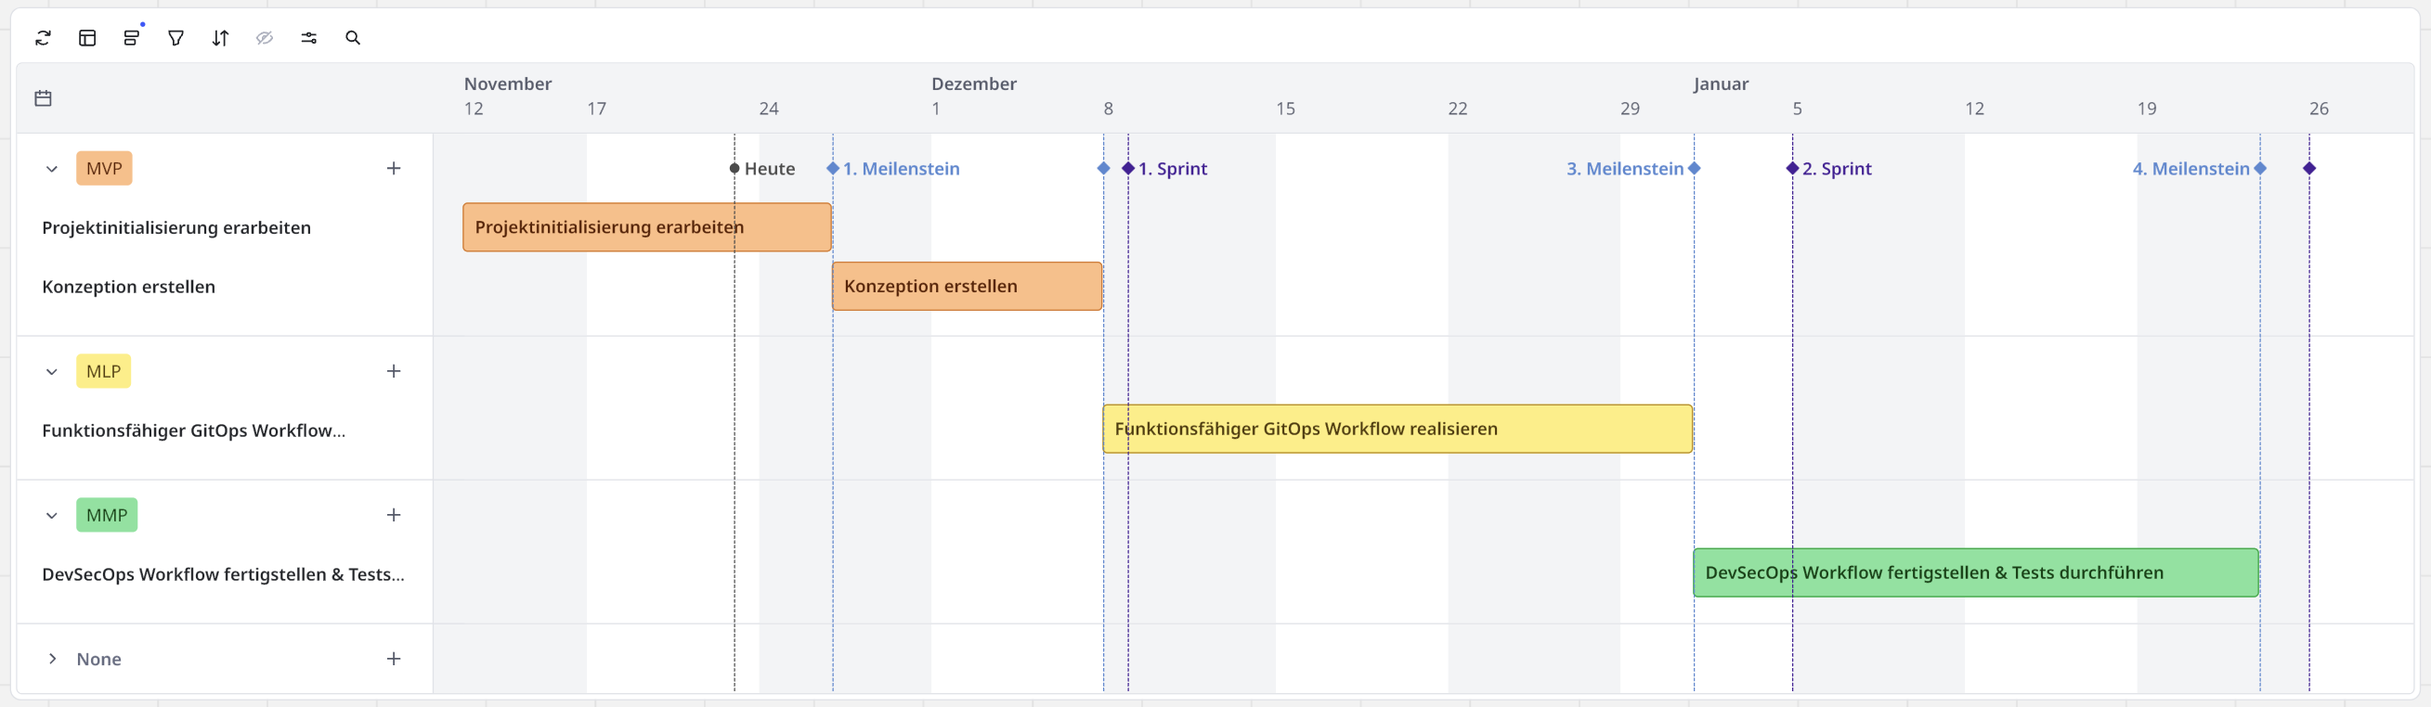
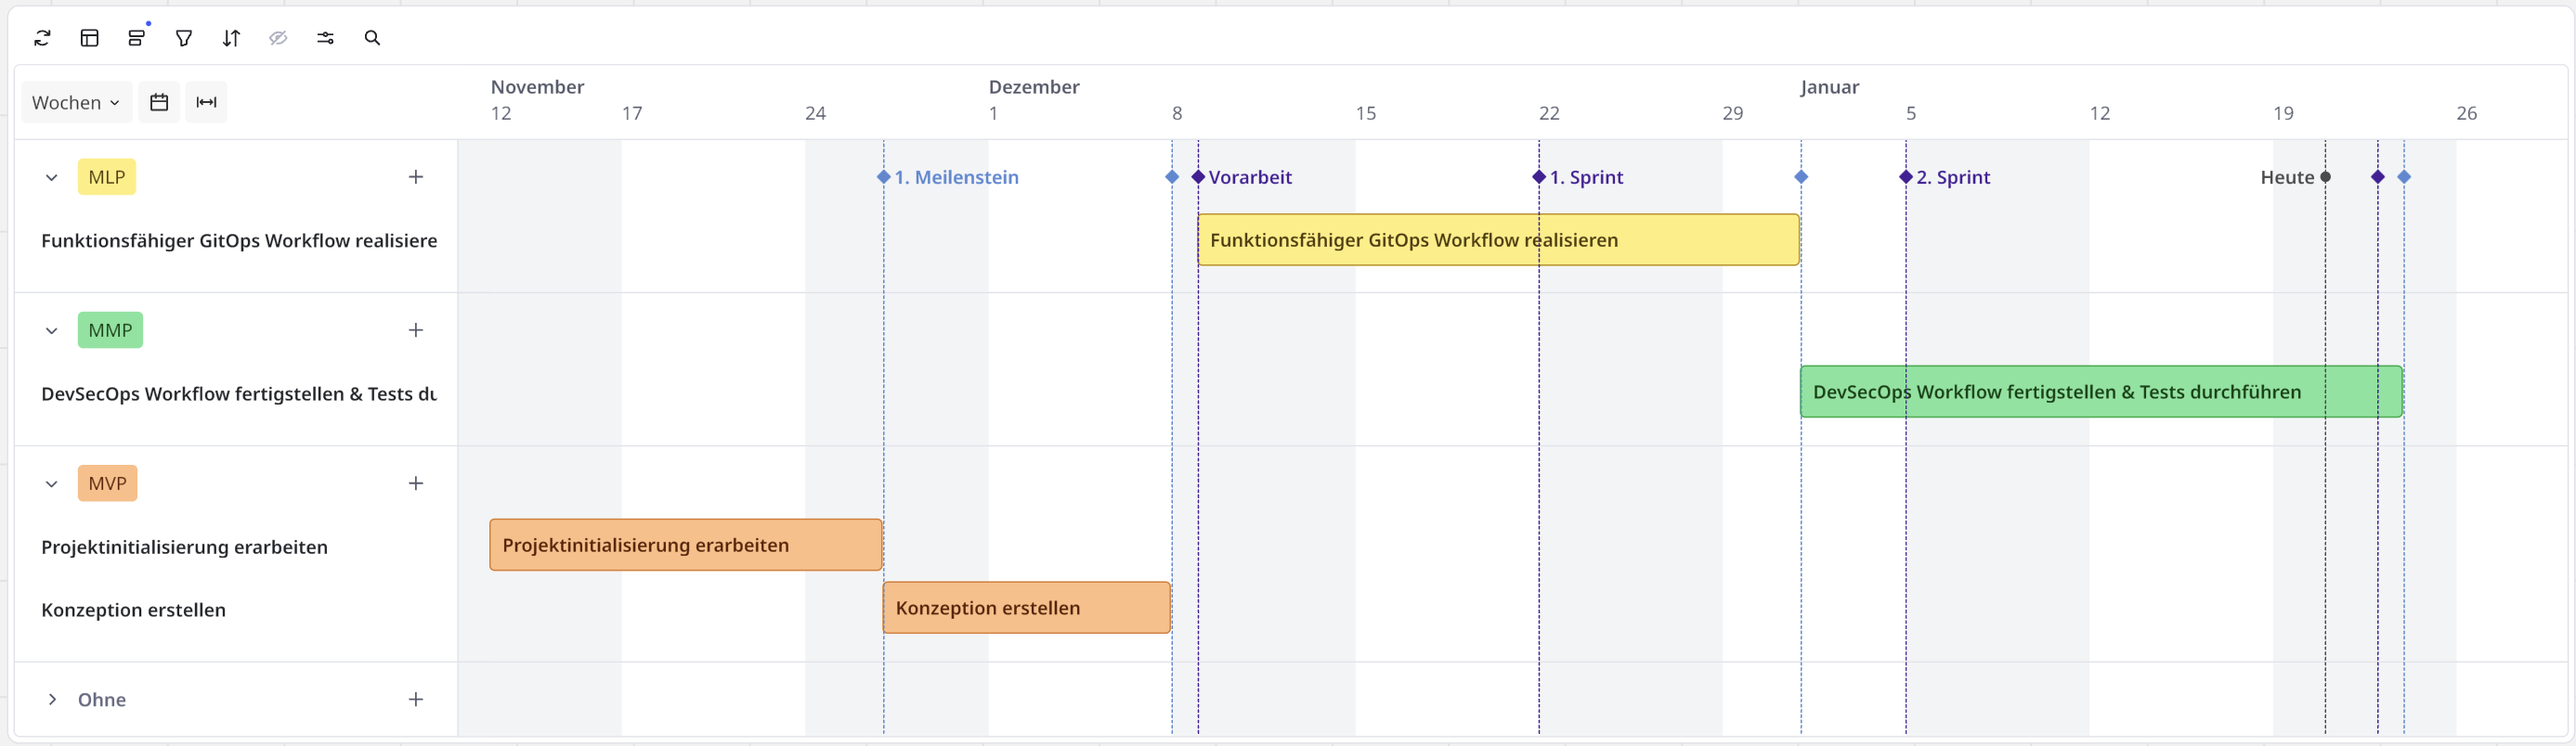
doku: roadmap edited

diff --git a/README.md b/README.md
@@ -19,13 +19,14 @@
   - [Abwicklungsziele](#abwicklungsziele)
     - [Definition of Done (DoD)](#definition-of-done-dod)
     - [Meilensteine](#meilensteine)
-  - [Releases-Planning --\> Zeitplan?](#releases-planning----zeitplan)
+  - [Roadmap](#roadmap)
     - [Minimum Viable Product (MVP)](#minimum-viable-product-mvp)
     - [Minimum Marketable Product (MMP)](#minimum-marketable-product-mmp)
     - [Minimum Lovable Product (MLP)](#minimum-lovable-product-mlp)
-    - [1. Sprint vom 12.11 - 08.12.2025](#1-sprint-vom-1211---08122025)
-    - [2. Sprint vom xx.xx - xx.xx.2025](#2-sprint-vom-xxxx---xxxx2025)
-    - [3. Sprint vom xx.xx - xx.xx.2025](#3-sprint-vom-xxxx---xxxx2025)
+    - [Projektinitialisierung 12.11 - 08.12.2025](#projektinitialisierung-1211---08122025)
+    - [1. Sprint vom 09.12 - 22.12.2025](#1-sprint-vom-0912---22122025)
+    - [2. Sprint vom 23.01 - 05.01.2026](#2-sprint-vom-2301---05012026)
+    - [3. Sprint vom 06.01 - 23.01.2026](#3-sprint-vom-0601---23012026)
   - [Anforderungsdefinition](#anforderungsdefinition)
     - [Funktionale Anforderung](#funktionale-anforderung)
     - [Nicht-funktionale Anforderungen](#nicht-funktionale-anforderungen)
@@ -235,7 +236,7 @@ In den unten beschriebenen Punkten werden die nötigen Schritte definiert, die d
 ### Story Point Schätzung
 https://clickup.com/de/blog/222797/punkte-der-fibonacci-geschichte
 
-## Releases-Planning --> Zeitplan?
+## Roadmap
 
 Beachte diesen Punkt mit dem GitOps Workflow Konzept. MVP zusammen mit Git Tags/Versionierung der Branches
 
@@ -247,14 +248,14 @@ Beachte diesen Punkt mit dem GitOps Workflow Konzept. MVP zusammen mit Git Tags/
 
 ### Minimum Lovable Product (MLP)
 
-### 1. Sprint vom 12.11 - 08.12.2025
+### Projektinitialisierung 12.11 - 08.12.2025
 
-![Sprint Board](image/01sprint_board.png)
+![Sprint Board](image/vorbereitung_board.png)
 
-| Story                               | Akzeptanzkriterium                 | Points |
-| :---------------------------------- | :--------------------------------- | :----- |
-| Einfürhung schreiben               | [SEM04-5](https://shorturl.at/voJ7B)  | 1      |
-| Projektmanagement erläutern        | [SEM04-6](https://shorturl.at/nkYM0)  | 1      |
+| Story                               | Akzeptanzkriterium                    | Points |
+| :---------------------------------- | :------------------------------------ | :----- |
+| Einfürhung schreiben                | [SEM04-5](https://shorturl.at/voJ7B)  | 1      |
+| Projektmanagement erläutern         | [SEM04-6](https://shorturl.at/nkYM0)  | 1      |
 | Ziele definieren und beschreiben    | [SEM04-7](https://shorturl.at/MJHTs)  | 3      |
 | Sprint planen                       | [SEM04-8](https://shorturl.at/CMeLD)  | 3      |
 | Anforderungsdefinition beschreiben  | [SEM04-9](https://shorturl.at/fGoiQ)  | 1      |
@@ -269,11 +270,17 @@ Beachte diesen Punkt mit dem GitOps Workflow Konzept. MVP zusammen mit Git Tags/
 > [!NOTE]
 > **Sprint Goal**: Abschluss und Erreichung der beiden Meilensteine; Initialisierungs- und Konzeptionsphase.
 
-### 2. Sprint vom xx.xx - xx.xx.2025
+### 1. Sprint vom 09.12 - 22.12.2025
+
+![01sprint_board](image/01sprint_board.png)
 
 Als Table mit den Stories/Tasks und Akzepttanzkriterien
 
-### 3. Sprint vom xx.xx - xx.xx.2025
+### 2. Sprint vom 23.01 - 05.01.2026
+
+Als Table mit den Stories/Tasks und Akzepttanzkriterien
+
+### 3. Sprint vom 06.01 - 23.01.2026
 
 Als Table mit den Stories/Tasks und Akzepttanzkriterien
 
